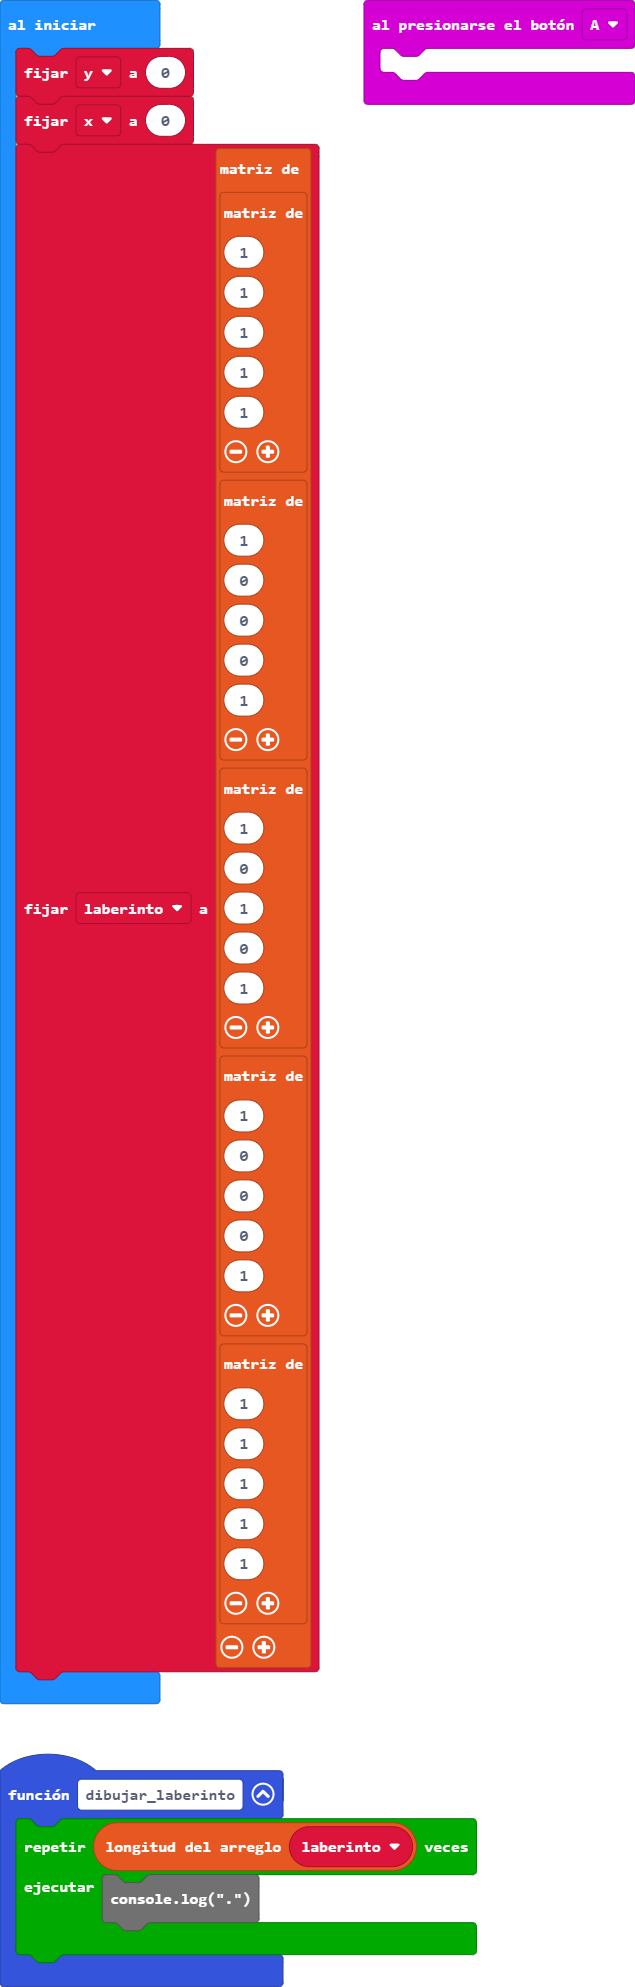
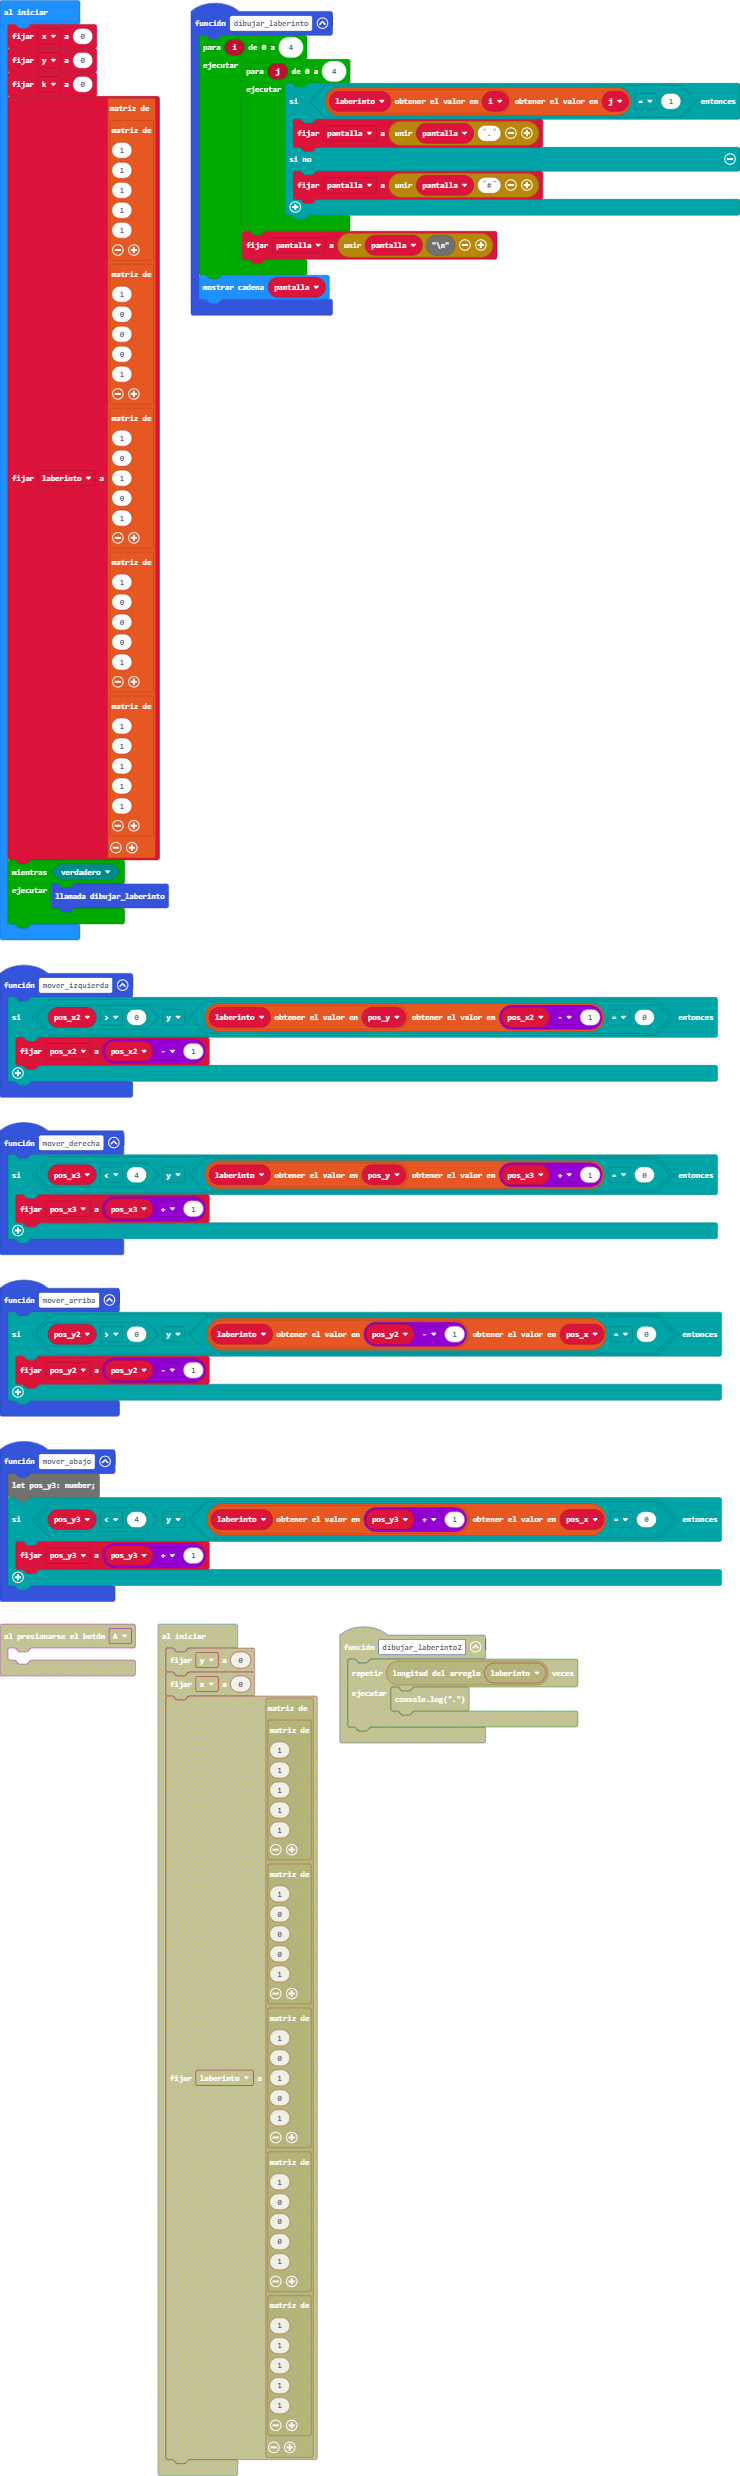
Actualizar main.blocks, main.ts, main.py

diff --git a/main.ts b/main.ts
@@ -1,13 +1,59 @@
 function dibujar_laberinto() {
-    for (let index = 0; index < laberinto.length; index++) {
-        console.log(".")
+    
+    for (let i = 0; i < 5; i++) {
+        for (let j = 0; j < 5; j++) {
+            if (laberinto[i][j] == 1) {
+                pantalla = "" + pantalla + "."
+            } else {
+                pantalla = "" + pantalla + "#"
+            }
+            
+        }
+        pantalla = "" + pantalla + "\n"
     }
+    basic.showString(pantalla)
 }
 
-input.onButtonPressed(Button.A, function on_button_pressed_a() {
-    dibujar_laberinto()
-})
+let pos_x = 0
+let pos_y = 0
+let pantalla = ""
 let laberinto : number[][] = []
-let y = 0
 let x = 0
+let y = 0
+let k = 0
 laberinto = [[1, 1, 1, 1, 1], [1, 0, 0, 0, 1], [1, 0, 1, 0, 1], [1, 0, 0, 0, 1], [1, 1, 1, 1, 1]]
+while (true) {
+    dibujar_laberinto()
+    function mover_izquierda() {
+        
+        if (pos_x > 0 && laberinto[pos_y][pos_x - 1] == 0) {
+            pos_x -= 1
+        }
+        
+    }
+    
+    function mover_derecha() {
+        
+        if (pos_x < 4 && laberinto[pos_y][pos_x + 1] == 0) {
+            pos_x += 1
+        }
+        
+    }
+    
+    function mover_arriba() {
+        
+        if (pos_y > 0 && laberinto[pos_y - 1][pos_x] == 0) {
+            pos_y -= 1
+        }
+        
+    }
+    
+    function mover_abajo() {
+        
+        if (pos_y < 4 && laberinto[pos_y + 1][pos_x] == 0) {
+            pos_y += 1
+        }
+        
+    }
+    
+}

diff --git a/main.py b/main.py
@@ -1,16 +1,44 @@
 def dibujar_laberinto():
-    for index in range(len(laberinto)):
-        print(".")
+    global pantalla
+    for i in range(5):
+        for j in range(5):
+            if laberinto[i][j] == 1:
+                pantalla = "" + pantalla + "."
+            else:
+                pantalla = "" + pantalla + "#"
+        pantalla = "" + pantalla + "\n"
+    basic.show_string(pantalla)
 
-def on_button_pressed_a():
-    dibujar_laberinto()
-input.on_button_pressed(Button.A, on_button_pressed_a)
-
+pos_x = 0
+pos_y = 0
+pantalla = ""
 laberinto: List[List[number]] = []
-y = 0
 x = 0
+y = 0
+k = 0
 laberinto = [[1, 1, 1, 1, 1],
     [1, 0, 0, 0, 1],
     [1, 0, 1, 0, 1],
     [1, 0, 0, 0, 1],
     [1, 1, 1, 1, 1]]
+while True:
+    dibujar_laberinto()
+    def mover_izquierda():
+        global pos_x
+        if pos_x > 0 and laberinto[pos_y][pos_x-1] == 0:
+            pos_x -= 1
+
+    def mover_derecha():
+        global pos_x
+        if pos_x < 4 and laberinto[pos_y][pos_x+1] == 0:
+            pos_x += 1
+
+    def mover_arriba():
+        global pos_y
+        if pos_y > 0 and laberinto[pos_y-1][pos_x] == 0:
+            pos_y -= 1
+
+    def mover_abajo():
+        global pos_y
+        if pos_y < 4 and laberinto[pos_y+1][pos_x] == 0:
+            pos_y += 1
